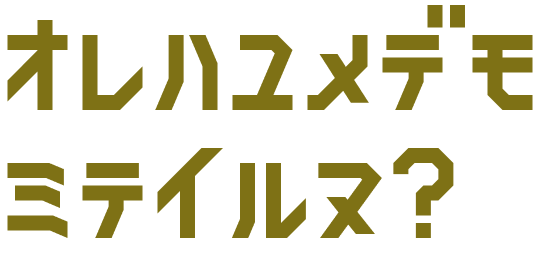
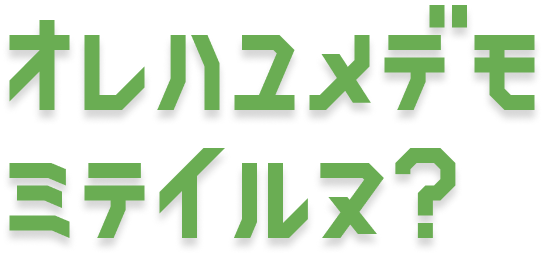
feat: katakana only

Changed region(s): [[0.0, 0.0, 1.0, 0.4688], [0.4148, 0.5625, 0.8593, 0.9688], [0.0, 0.5625, 0.4148, 0.9688]]

diff --git a/kitanu/components/parts/ChatComment.vue b/kitanu/components/parts/ChatComment.vue
@@ -5,7 +5,7 @@
     </div>
     <div class="chatitem-body">
       <!-- text -->
-      <p v-if="!isGood" class="chatitem-body-text" v-html="$sanitize(text)"></p>
+      <p v-if="!isGood" class="chatitem-body-text wf-nicomoji" v-html="$sanitize(text)"></p>
       <!-- good -->
       <div v-if="isGood" class="chatitem-body-good">
         <transition name="fade">
@@ -109,7 +109,7 @@ export default Vue.extend({
       if (this.last) {
         setTimeout(() => {
           this.visibleGood = true;
-        }, 500);
+        }, 200);
       } else {
         this.visibleGood = true;
       }
@@ -124,11 +124,14 @@ export default Vue.extend({
 
 <!------------------------------->
 <style scoped lang="scss">
+// 吹き出し背景カラー #ECDE90
+
 .chatitem {
   position: relative;
   display: flex;
   padding: 10px 20px 10px 20px;
-  color: var(--app-comment-color);
+  // color: var(--app-comment-color);
+  color: #c1620e;
   &.--fuki {
     .chatitem-body {
       background-color: transparent;
@@ -143,7 +146,7 @@ export default Vue.extend({
 
       background-size: 100% 100%;
       background-repeat: no-repeat;
-      font-size: 14px;
+      // font-size: 14px;
       padding: 40px 60px;
       min-height: 230px;
     }
@@ -152,7 +155,8 @@ export default Vue.extend({
     background-image: url('/img/e0520_1.png');
   }
   &.--fuki2 .chatitem-body-text {
-    background-image: url('/img/e0308_1.png');
+    // background-image: url('/img/e0308_1.png');
+    background-image: url('/img/e0350_1.png');
     padding: 80px 60px 40px;
     min-height: 260px;
   }
@@ -162,9 +166,17 @@ export default Vue.extend({
     min-height: 160px;
   }
   &.--fuki4 .chatitem-body-text {
-    background-image: url('/img/e0272_1.png');
+    // background-image: url('/img/e0272_1.png');
+    background-image: url('/img/e0313_1.svg');
+    background-size: 100% auto;
     padding: 30px 60px 30px;
     min-height: 100px;
+  }
+  &.--waku {
+    background-color: #fff;
+    padding: 10px 5px 0;
+    border-radius: 8px;
+    box-shadow: -2px 2px 2px #eee, 2px -2px 2px #eee;
   }
 }
 .chatitem-icon {
@@ -176,11 +188,6 @@ export default Vue.extend({
   flex: 1;
   font-size: 12px;
   line-height: 1.5;
-  background-color: #fff;
-  padding: 10px 5px 0;
-
-  border-radius: 8px;
-  box-shadow: -2px 2px 2px #eee, 2px -2px 2px #eee;
 
   /* border: solid 1px #fff; */
   /* background-color: #fff6d3; */
@@ -188,8 +195,14 @@ export default Vue.extend({
 }
 .chatitem-body-text {
   font-size: 12px;
-  padding: 0px 10px 0 10px;
-  text-indent: 1em;
+  padding: 0px 10px 10px 10px;
+  text-indent: 0.7em;
+  line-height: 1;
+  text-shadow: 0 0 2px #ffbd41;
+  color: #c1620e;
+  &.wf-nicomoji {
+    font-size: 28px;
+  }
 }
 .chatitem-body-good {
   display: flex;

diff --git a/kitanu/components/AppFooter.vue b/kitanu/components/AppFooter.vue
@@ -42,7 +42,7 @@
         </a>
         <!-- <CaTextarea v-model="talkText" name="talkText" width="M" placeholder="コメント"></CaTextarea> -->
         <div class="textarea">
-          <textarea v-model="talkText" :rows="talkTextRows" :placeholder="placeholder" />
+          <textarea :value="talkText" :rows="talkTextRows" :placeholder="placeholder" @input="onInput" />
           <ul v-show="imgSelected" class="preview">
             <li v-for="url in imgurls" :key="url" class="preview-item">
               <img :src="url" alt="" />
@@ -78,10 +78,12 @@ import Vue, { PropType } from 'vue';
 import { ValidationProvider } from 'vee-validate';
 import FileInput from '@/components/parts/FileInput.vue';
 import { FileItemType } from '@/components/types/app';
+import { hiraToKana } from '@/common/util';
 
 type State = {
   talkText: string;
   fileItems: FileItemType[];
+  timerIDInput: NodeJS.Timer | null;
 };
 
 export default Vue.extend({
@@ -97,6 +99,7 @@ export default Vue.extend({
     return {
       talkText: '',
       fileItems: [],
+      timerIDInput: null,
     };
   },
   computed: {
@@ -108,7 +111,13 @@ export default Vue.extend({
       return klass;
     },
     talkTextRows(): number {
-      return this.talkText.split('\n').length;
+      if (!this.talkText) return 1;
+      const tmp = this.talkText.split('\n');
+      const count = tmp.reduce((eachValue, currentValue) => {
+        const mycount = Math.floor(currentValue.length / 13);
+        return eachValue + mycount;
+      }, 0);
+      return tmp.length + count;
     },
     imgurls(): string[] {
       return this.fileItems.map((fileItem: FileItemType) => {
@@ -144,11 +153,17 @@ export default Vue.extend({
     onImgLoaded(i: FileItemType) {
       this.fileItems.push(i);
     },
+    onInput(e: InputEvent) {
+      const $el = e.target as HTMLTextAreaElement;
+      this.talkText = $el.value;
+    },
     submit(withFuki: boolean = false) {
       const fukitype = withFuki ? `fuki${Math.ceil(Math.random() * 4)}` : '';
+      // txt = txt.replace(/[^(\u30A1-\u30F6)(^[a-zA-Z0-9!-/:-@¥[-`{-~\]*$\n)]/g, '');
+      const text = hiraToKana(this.talkText).trim();
       this.$emit('submit', {
         fileItem: this.fileItems[0],
-        text: this.talkText,
+        text,
         reset: this.reset,
         fukitype,
       });

diff --git a/kitanu/assets/css/app.scss b/kitanu/assets/css/app.scss
@@ -1,5 +1,14 @@
 @charset "utf-8";
 
+@font-face {
+  font-family: 'Nico Moji';
+  // src: url(/path/to/fonts/examplefont.woff) format('woff');
+  src: local('Helvetica Neue Bold');
+  font-weight: 400;
+  font-style: normal;
+  font-display: swap;
+}
+
 /**
  * Remove the margin in Firefox and Safari.
  */
@@ -34,14 +43,13 @@ html {
   font-family: 'Helvetica Neue', Arial, 'Hiragino Kaku Gothic ProN', 'Hiragino Sans', Meiryo, sans-serif;
   user-select: none;
 }
+.wf-nicomoji {
+  font-family: 'Nico Moji';
+}
 
 a {
   cursor: pointer;
 }
-
-// .no-js .lazy {
-//   display: none;
-// }
 
 :root {
   // toast

diff --git a/kitanu/common/__test__/util.spec.ts b/kitanu/common/__test__/util.spec.ts
@@ -1,12 +1,19 @@
-import { shuffle } from '../util';
+import { shuffle, hiraToKana } from '../util';
 
 jest.mock('camaleao-design/components/CaModalPG');
 jest.mock('camaleao-design/components/CaToastPG');
 
-describe('util', () => {
+describe('shuffle', () => {
   test('shuffle', () => {
     const ary1 = Array.from(Array(10)).map((_, index: number) => index);
     const ary2 = shuffle(ary1);
     expect(ary2).not.toEqual(ary1);
+  });
+});
+
+describe('hiraToKana', () => {
+  test('kana', () => {
+    const result = hiraToKana('ほんなこつ');
+    expect(result).toEqual('ホンナコツ');
   });
 });

diff --git a/kitanu/nuxt.config.js b/kitanu/nuxt.config.js
@@ -49,6 +49,10 @@ export default {
         href: '/ios/AppIcon.appiconset/iphone_app60x60@2x.png',
         sizes: '144x144',
       },
+      {
+        rel: 'stylesheet',
+        href: 'https://fonts.googleapis.com/earlyaccess/nicomoji.css',
+      },
     ],
     script: [
       { src: 'https://unpkg.com/ionicons@5.1.2/dist/ionicons/ionicons.esm.js', type: 'module' },

diff --git a/kitanu/common/util.ts b/kitanu/common/util.ts
@@ -189,3 +189,13 @@ export const particleEffect = (color?: string) => {
   });
   return vm;
 };
+
+/**
+ * hiraToKana
+ */
+export function hiraToKana(str: string) {
+  return str.replace(/[\u3041-\u3096]/g, function (match) {
+    const chr = match.charCodeAt(0) + 0x60;
+    return String.fromCharCode(chr);
+  });
+}
